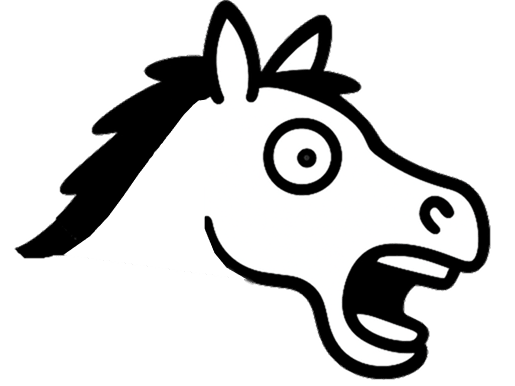
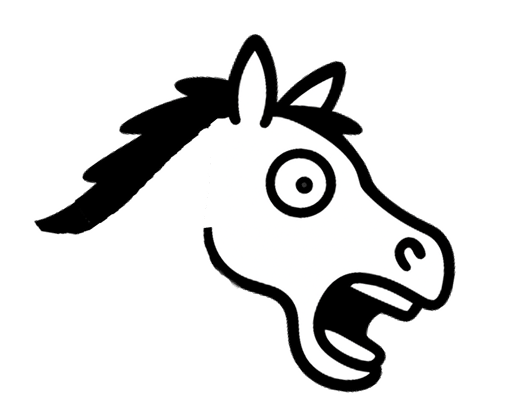
Update horse images (#15)

Changed region(s): [[0.1761, 0.0, 0.9687, 0.9948], [0.0294, 0.4041, 0.2642, 0.6839]]

diff --git a/pages/game.vue b/pages/game.vue
@@ -66,7 +66,6 @@ class CarExampleScene extends Phaser.Scene {
     // загружаем текстуру кузова вместо debug
     this.load.image('horse-body', '/images/horse_body.png')
     this.load.image('horse-head', '/images/horse_head.png')
-    // this.load.image('horse-leg', '/images/left_leg.png')
   }
 
   create() {
@@ -145,10 +144,11 @@ class CarExampleScene extends Phaser.Scene {
         category: 0x0001,
         mask: 0xffff,
       },
+      mass: 1 / 100,
     })
     // Constraint to fix carRoof to carBody
     this.matter.add.constraint(this.carBody, this.carRoof, 0, 1, {
-      pointA: { x: 30, y: -40 },
+      pointA: { x: 50, y: -40 },
       // pointB: { x: 0, y: -5 },
     })
     // Wheels (physics only) - positioned under the car body
@@ -174,6 +174,12 @@ class CarExampleScene extends Phaser.Scene {
     })
 
     // создаём графику для отрисовки левого колеса
+    const ramaGraphics = this.add.graphics()
+    ramaGraphics.fillStyle(0x000000, 1) // 2px, чёрный цвет, непрозрачный
+    ramaGraphics.fillRect(-30, 11, 60, 3)
+    this.matter.add.gameObject(ramaGraphics, this.carBody)
+
+    // создаём графику для отрисовки левого колеса
     const leftWheelGraphics = this.add.graphics()
     leftWheelGraphics.lineStyle(2, 0x000000, 1) // 2px, чёрный цвет, непрозрачный
     leftWheelGraphics.strokeCircle(0, 0, 12)
@@ -190,9 +196,9 @@ class CarExampleScene extends Phaser.Scene {
     this.matter.add.constraint(this.carBody, this.rightWheel, 0, 0.5, { pointA: { x: 33, y: 13 } })
 
     // Графика для кузова — загруженная PNG
-    const bodySprite = this.add.sprite(0, 0, 'horse-body').setOrigin(0.5, 0.5)
+    const bodySprite = this.add.sprite(0, 0, 'horse-body').setOrigin(0.54, 0.7)
     const multiply = 1
-    bodySprite.displayWidth = 140 * multiply
+    bodySprite.displayWidth = 110 * multiply
     bodySprite.displayHeight = 70 * multiply
     const headSprite = this.add.sprite(0, 0, 'horse-head').setOrigin(0.5, 0.5)
     headSprite.displayWidth = 4 * 14
@@ -201,8 +207,8 @@ class CarExampleScene extends Phaser.Scene {
     this.add.existing(bodySprite)
     this.add.existing(headSprite)
     this.events.on('postupdate', () => {
-      bodySprite.x = this.carBody.position.x + 10
-      bodySprite.y = this.carBody.position.y - 10
+      bodySprite.x = this.carBody.position.x
+      bodySprite.y = this.carBody.position.y
       bodySprite.rotation = this.carBody.angle
 
       headSprite.x = this.carRoof.position.x
@@ -332,9 +338,9 @@ onBeforeUnmount(() => {
 // Эмулируем нажатие стрелки, если зажата кнопка на экране
 onMounted(() => {
   interval = window.setInterval(() => {
-    if (phaserGame && phaserGame.scene) {
+    if (phaserGame?.scene) {
       const scene: any = phaserGame.scene.keys.CarExampleScene
-      if (scene && scene.cursors) {
+      if (scene?.cursors) {
         scene.cursors.left.isDown = leftHeld.value
         scene.cursors.right.isDown = rightHeld.value
       }
